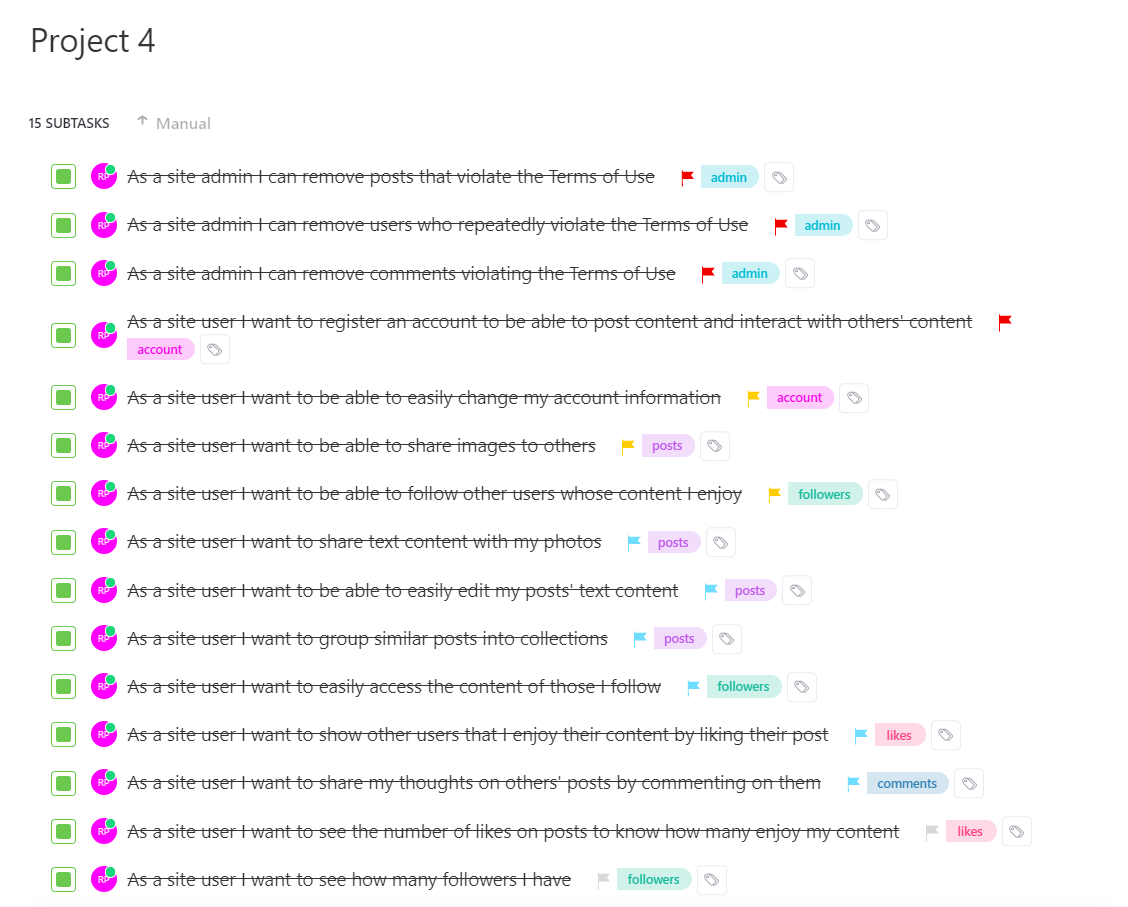
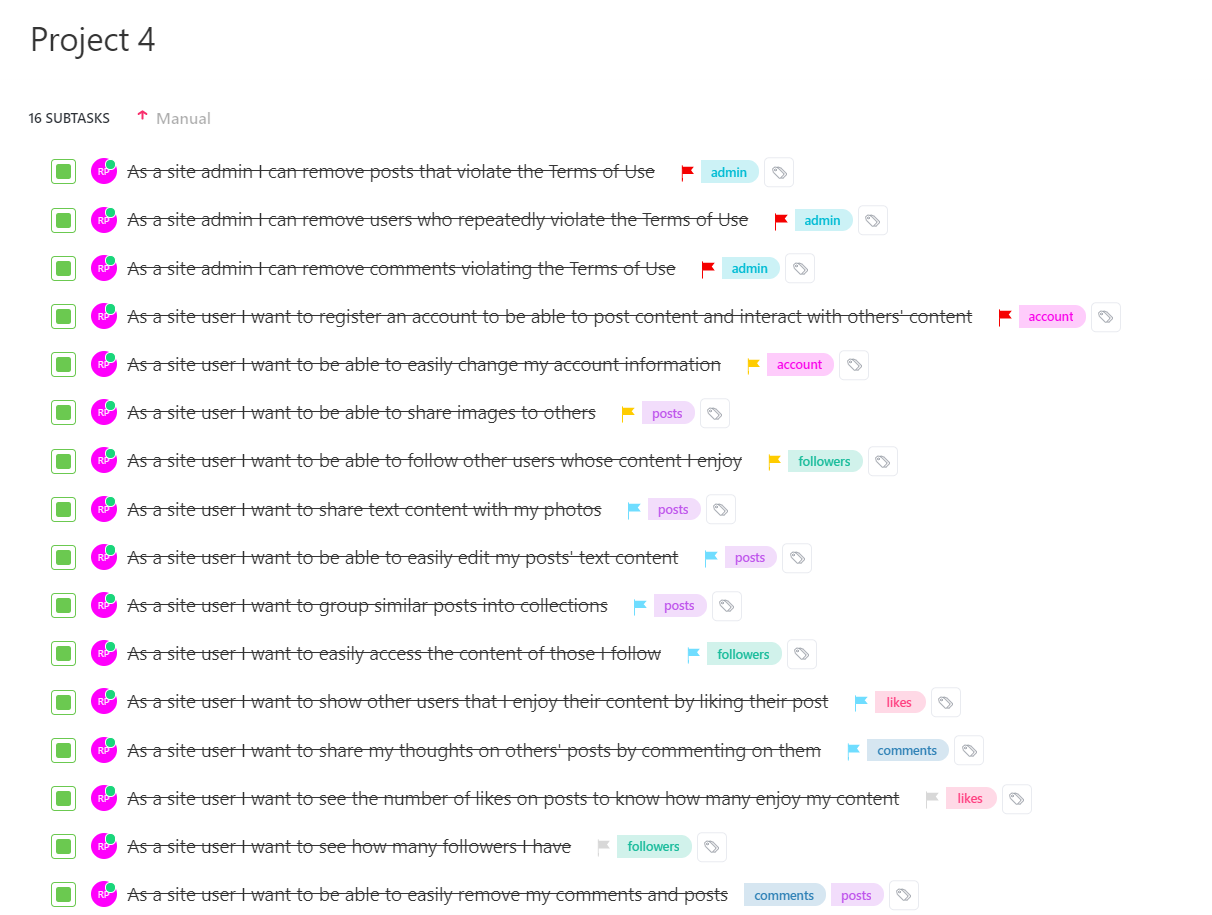
📝 update readme

diff --git a/README.md b/README.md
@@ -6,7 +6,7 @@
 
 </div>
 
-# 1. Introduction
+# Introduction
 
 AboutMe is a site for sharing images. 
 
@@ -14,7 +14,45 @@ On the site, users can share their stories in images in combination of text post
 
 Users are able to follow their favourite people to easily find their content on the front page, and perhaps upload comment encouraging words on the posts they like.
 
-# 2. Features and UX
+# Features and UX
+
+## **UX**
+
+### **Typography**
+
+I wanted to choose an easy-to-read font with a modern feel and chose Glacial Indifference, both regular and bold variants.
+
+### **Colours**
+
+Below are the main colours used on the site:
+
+<img src="images/colours.png" alt="colour scheme" width="200">
+
+I chose these colours specifically as they are picked from the colours present in the background image.
+
+### **User Stories**
+
+* **User Story 1**: As a site user, I want to register an account to be able to post content and interact with others' content.
+* **User Story 2**: As a site user, I want to be able to eaily change my account information.
+* **User Story 3**: As a site user, I want to be able to share images to others.
+* **User Story 4**: As a site user, I want to be able to follow other users whose content I enjoy.
+* **User Story 5**: As a site user, I want to share text content with my photos.
+* **User Story 6**: As a site user, I want to be able to easily edit my posts' text content.
+* **User Story 7**: As a site user, I want to group similar posts into collections.
+* **User Story 8**: As a site user, I want to easily access the content of those I follow.
+* **User Story 9**: As a site user, I want to show other users that I enjoy their content by liking their post.
+* **User Story 10**: As a site user, I want to share my thoughts on others' posts by commenting on them.
+* **User Story 11**: As a site user, I want to see the number of likes on posts to know how many enjoy my content.
+* **User Story 12**: As a site user, I want to see how many followers I have.
+* **User Story 13**: As a site user, I want to be able to easily remove my comments and posts.
+
+### **Admin Stories**
+
+* **Admin Story 1**: As a site admin, I can remove posts that violate the Terms of Use.
+* **Admin Story 2**: As a site admin, I can remove users who repetadly violate the Terms of Use.
+* **Admin Story 3**: As a site admin, I can remove comments violating the Terms of Use.
+
+---
 
 ## **Features**
 
@@ -76,31 +114,233 @@ Following allows the user to now, on the post page, browse posts by the users th
 
 <img src="images/tables.png" alt="logo image" width="1000">
 
----
+# ClickUp
 
-## **UX**
+For the project planning I used ClickUp to track my progress based on user/admin stories.
 
-### **Typography**
+# Wireframes
 
-I wanted to choose an easy-to-read font with a modern feel and chose Glacial Indifference, both regular and bold variants.
+Before starting the project, I did create some wireframes to use as a guide during development. I hadn't been able to imagine the whole end result and the layout differs slightly but it did help me with a rough idea of the result.
 
-### **Colours**
+| Landing page 	| Search 	| Post 	|
+|:---:	|:---:	|:---:	|
+| ![landing page wireframe][start-wireframe] 	| ![searchbox wireframe][search-wireframe] 	| ![post page wireframe][post-wireframe] 	|
 
-Below are the main colours used on the site:
+| Login prompt 	| Signup prompt 	| Account page 	|
+|:---:	|:---:	|:---:	|
+| ![login wireframe][login-wireframe] 	| ![signup wireframe][signup-wireframe] 	| ![account page wireframe][account-wireframe] 	|
 
-<img src="images/colours.png" alt="colour scheme" width="200">
-
----
-
-# 3. Wireframes
-
-# 4. Testing
+# Testing
 
 ## **Manual testing**
 
+**Methodology**
+
+All the user and admin stories have been implemented and tested as shown below.
+
+### **User Stories**
+
+---------------
+
+**As a site user, I want to register an account to be able to post content and interact with others' content.**
+
+Implementation 🏭: In the login modal, there is a button allowing for users to sign up.
+
+Test 🧪: I created a new user.
+
+Result 🏆: Everything worked as expected, the user was created and logged in.
+
+Verdict ✅: The test passed as everything worked as expected
+
+---------------
+
+**As a site user, I want to be able to eaily change my account information.**
+
+Implementation 🏭: On the user's account pade there is a profile edit button where they have the option to update their profile picture, bio, username and email.
+
+Test 🧪: I tried changing the profile photo, bio, username and email using the profile edit modal
+
+Result 🏆: Everything worked as expected, values were immediately updated in the database and a confirmation message was shown
+
+Verdict ✅: The test passed as everything worked as expected
+
+---------------
+
+**As a site user, I want to be able to share images to others.**
+
+Implementation 🏭: On the user's account page there is an image upload button which opens up a modal where they may upload an image.
+
+Test 🧪: I tried uploading photos on the site using the photo upload modal
+
+Result 🏆: Everything worked as expected, the photo was saved with its title
+
+Verdict ✅: The test passed as everything worked as expected
+
+---------------
+
+**As a site user, I want to be able to follow other users whose content I enjoy.**
+
+Implementation 🏭: When logged in, a user icon with a plus sign is shown on others' profile page. Users can click this to follow that user.
+
+Test 🧪: I tried following other users on the site using the follow button
+
+Result 🏆: Everything worked as expected, my user was added to the followers of that user
+
+Verdict ✅: The test passed as everything worked as expected
+
+---------------
+
+**As a site user, I want to share text content with my photos.**
+
+Implementation 🏭: In the image upload menu, the user has the option to add text content to their post. In that case they may enter the text into the textarea field
+
+Test 🧪: I uploaded an image with added text content
+
+Result 🏆: Everything worked as expected, the text content was shown on the post page
+
+Verdict ✅: The test passed as everything worked as expected
+
+---------------
+
+**As a site user, I want to be able to easily edit my posts' text content.**
+
+Implementation 🏭: The user is able to edit their posts' text content using the inline editing tool. On the user's own post upon hover there is a pencil icon next to editable content
+
+Test 🧪: I tried editing the titles and text contents of photos using the inline editing tool
+
+Result 🏆: Everything worked as expected, the new content was updated to the post page
+
+Verdict ✅: The test passed as everything worked as expected
+
+---------------
+
+**As a site user, I want to group similar posts into collections.**
+
+Implementation 🏭: Adding an image is mandatory as part of the upload process, the user is also able to create new collections on that page
+
+Test 🧪: I tested whether or not images were added to the chosen/new collection
+
+Result 🏆: Image uploaded was added to the collection
+
+Verdict ✅: The test passed as everything worked as expected
+
+---------------
+
+**As a site user, I want to easily access the content of those I follow.**
+
+Implementation 🏭: On the Posts page, the user is able to filter posts of users they follow by clicking the "following" button in the button group
+
+Test 🧪: I used the following filter on the Posts page
+
+Result 🏆: Images shown were only of the users I followd
+
+Verdict ✅: The test passed as everything worked as expected
+
+---
+
+**As a site user, I want to show other users that I enjoy their content by liking their post.**
+
+Implementation 🏭: On the individual post page there is a button with a heart. Logged in users can click this to like the post. The total amount of likes is shown next to the button
+
+Test 🧪: I used the button to like a post
+
+Result 🏆: A like was added to the counter next to the heart icon
+
+Verdict ✅: The test passed as everything worked as expected
+
+---------------
+
+**As a site user, I want to share my thoughts on others' posts by commenting on them.**
+
+Implementation 🏭: On the individual post page at the bottom, there is a textarea where logged in users may upload a comment. This comment is then shown above the text area. Users who are not logged in can only see the comments
+
+Test 🧪: I used the textarea to upload a comment on a post
+
+Result 🏆: A comment was added above the textarea
+
+Verdict ✅: The test passed as everything worked as expected
+
+---------------
+
+**As a site user, I want to see the number of likes on posts to know how many enjoy my content.**
+
+Implementation 🏭: A like counter is shown next to the heart icon on an individual post page. This shows the total amount of likes the post has received
+
+Test 🧪: I checked if the counter displays likes correctly
+
+Result 🏆: The counter increased by one after liking, and decreased by one after unliking,
+
+Verdict ✅: The test passed as everything worked as expected
+
+---------------
+
+**As a site user, I want to see how many followers I have.**
+
+Implementation 🏭: On the account page, below the user's username the number of followers is displayed in slightly smaller text
+
+Test 🧪: I checked if the counter displays followers correctly
+
+Result 🏆: The counter increased by one after following the user, and decreased by one after unfollowing
+
+Verdict ✅: The test passed as everything worked as expected
+
+---------------
+
+**As a site user, I want to be able to easily remove my comments and posts.**
+
+Implementation 🏭: A rubbish bin is shown on a user's comments above their username/profile picture. Clicking this deletes the comment
+
+Test 🧪: I checked if the comment got deletet upon clicking the rubbish bin
+
+Result 🏆: The comment was deleted
+
+Verdict ✅: The test passed as everything worked as expected
+
+---------------
+
+### **Admin Stories**
+
+**As a site admin, I can remove posts that violate the Terms of Use.**
+
+Implementation 🏭: A rubbish bin is shown on top of the post title on the individual post page for staff members. Clicking this deletes the post
+
+Test 🧪: I checked if the after got deletet upon clicking the rubbish bin
+
+Result 🏆: The post was deleted
+
+Verdict ✅: The test passed as everything worked as expected
+
+---------------
+
+**As a site admin, I can remove users who repetadly violate the Terms of Use.**
+
+Implementation 🏭: A staff member can navigate to the admin panel Users menu, where they can manually delete users. This is more difficult of a task in order to prevent accidental user deletions
+
+Test 🧪: I checked if the user got deleted from the admin panel Users meny
+
+Result 🏆: The user was deleted
+
+Verdict ✅: The test passed as everything worked as expected
+
+---------------
+
+**As a site admin, I can remove comments violating the Terms of Use.**
+
+Implementation 🏭: While regular users see a rubbish bin on top of only their comments, a staff member sees one on top of all comments and is able to delete a comment that way
+
+Test 🧪: I checked if the comment got deleted after clicking the rubbish bin
+
+Result 🏆: The comment was deleted
+
+Verdict ✅: The test passed as everything worked as expected
+
+---------------
+
 ## **Lighthouse**
 
-# 5. Dependencies
+
+
+# Dependencies
 
 1. **Django Client Side Image Corpping**
 2. **Django CORS-headers**
@@ -113,7 +353,7 @@ Below are the main colours used on the site:
 9. **Selenium**
 10. **Whitenoise**
 
-# 6. Bugs
+# Bugs
 
 ## **Fixed**
 
@@ -155,9 +395,9 @@ Below are the main colours used on the site:
 
 ---------------
 
-# 7. Deployment
+# Deployment
 
-# 8. Future Enhancements
+# Future Enhancements
 
 - Add the possibility to message other users on the platform
     Having the possibility of messaging other users privately, not only through comments would enhance user experience and allow for networking
@@ -176,9 +416,16 @@ Below are the main colours used on the site:
     I already started working on this by adding a column to the profile model for dark mode, though the feature is not implemented yet (I need to create work on a separate dark mode stylesheet),
     and it would make more sense for me to just impelment a fully configurable theme instead
 
-# 9. Credits
+# Credits
 
-# 10. Links
+# Links
 
 [logo]: images/logo.png
 [tables]: images/tables.png
+[account-wireframe]: images/wireframeaccount.png
+[login-wireframe]: images/wireframelogin.png
+[post-wireframe]: images/wireframepost.png
+[search-wireframe]: images/wireframesearch.png
+[signup-wireframe]: images/wireframesignup.png
+[start-wireframe]: images/wireframestart.png
+
